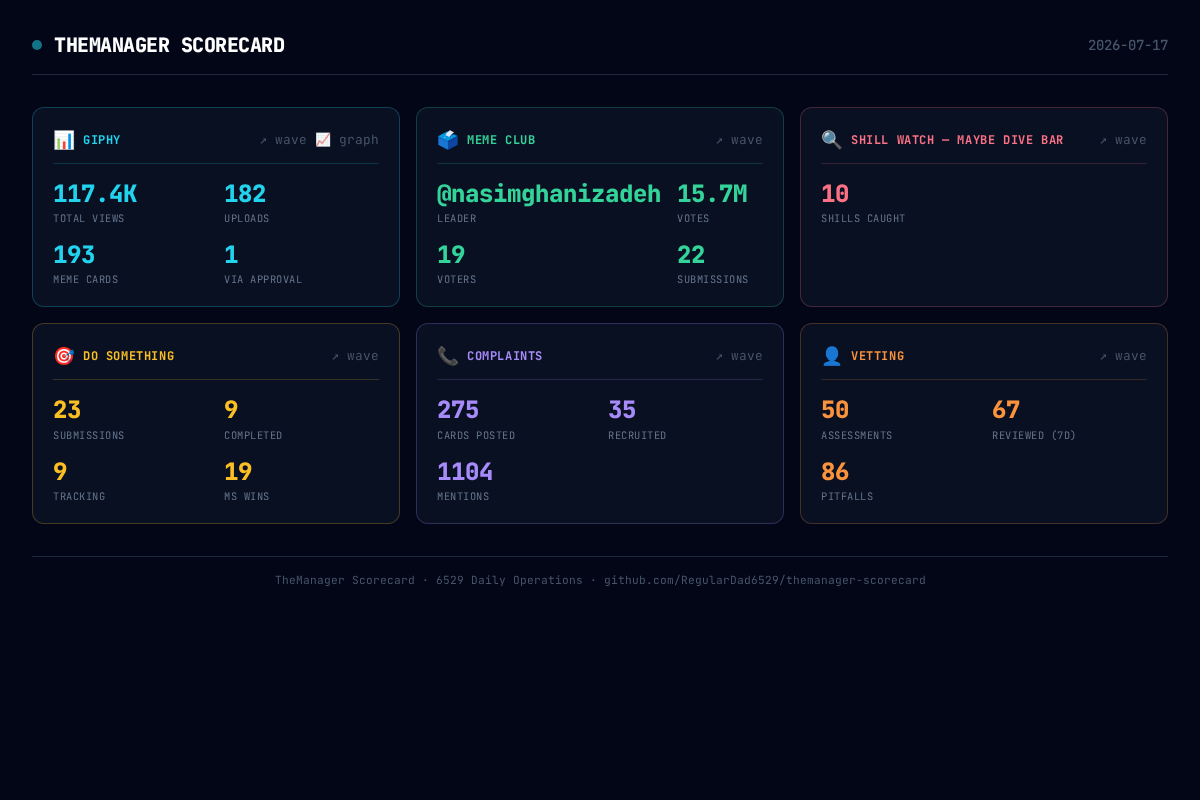
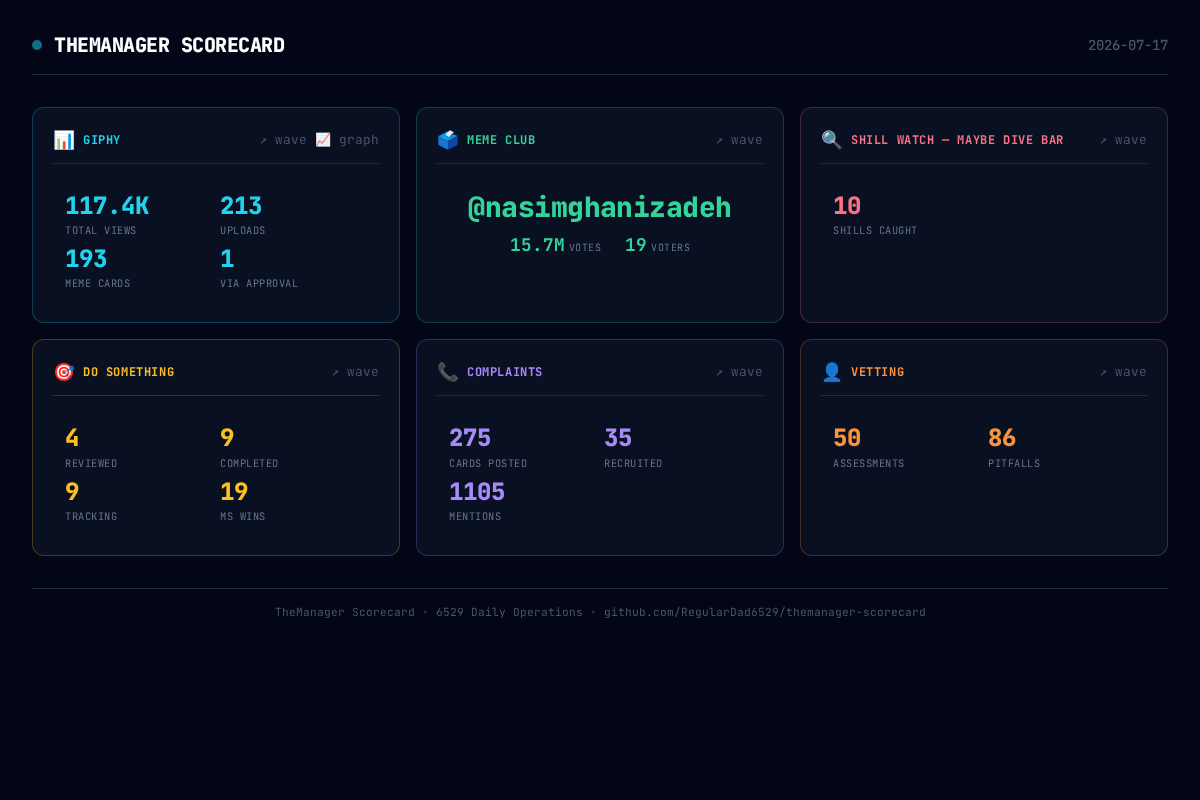
Scorecard v3: fix Giphy upload count, MC hero layout, Do Something reviewed, simplify Vetting

diff --git a/index.html b/index.html
@@ -110,9 +110,48 @@ h1 {
 
 .zone-metrics {
   display: grid;
-  gap: 1rem;
+  gap: 0.5rem;
+  padding: 0.75rem;
 }
 
+/* Hero layout for MC winner */
+.hero-card {
+  display: flex;
+  flex-direction: column;
+}
+
+.hero-value {
+  font-size: 1.75rem;
+  font-weight: 800;
+  text-align: center;
+  padding: 0.5rem 0.75rem;
+  letter-spacing: -0.02em;
+}
+
+.hero-stats {
+  display: flex;
+  justify-content: center;
+  gap: 1.5rem;
+  padding: 0 0.75rem 0.75rem;
+}
+
+.hero-sub {
+  display: flex;
+  align-items: baseline;
+  gap: 0.25rem;
+}
+
+.hero-sub-value {
+  font-size: 1.1rem;
+  font-weight: 700;
+}
+
+.hero-sub-label {
+  font-size: 0.625rem;
+  color: #64748b;
+  text-transform: uppercase;
+  letter-spacing: 0.05em;
+}
 .metric {
   display: flex;
   flex-direction: column;
@@ -172,7 +211,7 @@ h1 {
                 <div class="metric-label">Total Views</div>
               </div>
               <div class="metric">
-                <div class="metric-value" style="color: #22d3ee">182</div>
+                <div class="metric-value" style="color: #22d3ee">213</div>
                 <div class="metric-label">Uploads</div>
               </div>
               <div class="metric">
@@ -185,31 +224,14 @@ h1 {
               </div>
           </div>
         </div>
-        <div class="zone-card" style="border-color: #34d39940;">
+        <div class="zone-card hero-card" style="border-color: #34d39940;">
           <div class="zone-header" style="border-bottom-color: #34d39930;">
             <span class="zone-icon">🗳️</span>
             <span class="zone-label" style="color: #34d399">MEME CLUB</span>
             <a href="https://6529.io/waves/d23af421-203d-4e37-abc1-4d9df840026c" target="_blank" class="zone-link">↗ wave</a>
           </div>
-          <div class="zone-metrics" style="grid-template-columns: repeat(2, 1fr);">
-            
-              <div class="metric">
-                <div class="metric-value" style="color: #34d399">@nasimghanizadeh</div>
-                <div class="metric-label">Leader</div>
-              </div>
-              <div class="metric">
-                <div class="metric-value" style="color: #34d399">15.7M</div>
-                <div class="metric-label">Votes</div>
-              </div>
-              <div class="metric">
-                <div class="metric-value" style="color: #34d399">19</div>
-                <div class="metric-label">Voters</div>
-              </div>
-              <div class="metric">
-                <div class="metric-value" style="color: #34d399">22</div>
-                <div class="metric-label">Submissions</div>
-              </div>
-          </div>
+          <div class="hero-value" style="color: #34d399">@nasimghanizadeh</div>
+          <div class="hero-stats"><span class="hero-sub"><span class="hero-sub-value" style="color: #34d399">15.7M</span> <span class="hero-sub-label">Votes</span></span><span class="hero-sub"><span class="hero-sub-value" style="color: #34d399">19</span> <span class="hero-sub-label">Voters</span></span></div>
         </div>
         <div class="zone-card" style="border-color: #fb718540;">
           <div class="zone-header" style="border-bottom-color: #fb718530;">
@@ -234,8 +256,8 @@ h1 {
           <div class="zone-metrics" style="grid-template-columns: repeat(2, 1fr);">
             
               <div class="metric">
-                <div class="metric-value" style="color: #fbbf24">23</div>
-                <div class="metric-label">Submissions</div>
+                <div class="metric-value" style="color: #fbbf24">4</div>
+                <div class="metric-label">Reviewed</div>
               </div>
               <div class="metric">
                 <div class="metric-value" style="color: #fbbf24">9</div>
@@ -268,7 +290,7 @@ h1 {
                 <div class="metric-label">Recruited</div>
               </div>
               <div class="metric">
-                <div class="metric-value" style="color: #a78bfa">1104</div>
+                <div class="metric-value" style="color: #a78bfa">1105</div>
                 <div class="metric-label">Mentions</div>
               </div>
           </div>
@@ -284,10 +306,6 @@ h1 {
               <div class="metric">
                 <div class="metric-value" style="color: #fb923c">50</div>
                 <div class="metric-label">Assessments</div>
-              </div>
-              <div class="metric">
-                <div class="metric-value" style="color: #fb923c">67</div>
-                <div class="metric-label">Reviewed (7d)</div>
               </div>
               <div class="metric">
                 <div class="metric-value" style="color: #fb923c">86</div>

diff --git a/output/scorecard_2026-07-17.html b/output/scorecard_2026-07-17.html
@@ -110,9 +110,48 @@ h1 {
 
 .zone-metrics {
   display: grid;
-  gap: 1rem;
+  gap: 0.5rem;
+  padding: 0.75rem;
 }
 
+/* Hero layout for MC winner */
+.hero-card {
+  display: flex;
+  flex-direction: column;
+}
+
+.hero-value {
+  font-size: 1.75rem;
+  font-weight: 800;
+  text-align: center;
+  padding: 0.5rem 0.75rem;
+  letter-spacing: -0.02em;
+}
+
+.hero-stats {
+  display: flex;
+  justify-content: center;
+  gap: 1.5rem;
+  padding: 0 0.75rem 0.75rem;
+}
+
+.hero-sub {
+  display: flex;
+  align-items: baseline;
+  gap: 0.25rem;
+}
+
+.hero-sub-value {
+  font-size: 1.1rem;
+  font-weight: 700;
+}
+
+.hero-sub-label {
+  font-size: 0.625rem;
+  color: #64748b;
+  text-transform: uppercase;
+  letter-spacing: 0.05em;
+}
 .metric {
   display: flex;
   flex-direction: column;
@@ -172,7 +211,7 @@ h1 {
                 <div class="metric-label">Total Views</div>
               </div>
               <div class="metric">
-                <div class="metric-value" style="color: #22d3ee">182</div>
+                <div class="metric-value" style="color: #22d3ee">213</div>
                 <div class="metric-label">Uploads</div>
               </div>
               <div class="metric">
@@ -185,31 +224,14 @@ h1 {
               </div>
           </div>
         </div>
-        <div class="zone-card" style="border-color: #34d39940;">
+        <div class="zone-card hero-card" style="border-color: #34d39940;">
           <div class="zone-header" style="border-bottom-color: #34d39930;">
             <span class="zone-icon">🗳️</span>
             <span class="zone-label" style="color: #34d399">MEME CLUB</span>
             <a href="https://6529.io/waves/d23af421-203d-4e37-abc1-4d9df840026c" target="_blank" class="zone-link">↗ wave</a>
           </div>
-          <div class="zone-metrics" style="grid-template-columns: repeat(2, 1fr);">
-            
-              <div class="metric">
-                <div class="metric-value" style="color: #34d399">@nasimghanizadeh</div>
-                <div class="metric-label">Leader</div>
-              </div>
-              <div class="metric">
-                <div class="metric-value" style="color: #34d399">15.7M</div>
-                <div class="metric-label">Votes</div>
-              </div>
-              <div class="metric">
-                <div class="metric-value" style="color: #34d399">19</div>
-                <div class="metric-label">Voters</div>
-              </div>
-              <div class="metric">
-                <div class="metric-value" style="color: #34d399">22</div>
-                <div class="metric-label">Submissions</div>
-              </div>
-          </div>
+          <div class="hero-value" style="color: #34d399">@nasimghanizadeh</div>
+          <div class="hero-stats"><span class="hero-sub"><span class="hero-sub-value" style="color: #34d399">15.7M</span> <span class="hero-sub-label">Votes</span></span><span class="hero-sub"><span class="hero-sub-value" style="color: #34d399">19</span> <span class="hero-sub-label">Voters</span></span></div>
         </div>
         <div class="zone-card" style="border-color: #fb718540;">
           <div class="zone-header" style="border-bottom-color: #fb718530;">
@@ -234,8 +256,8 @@ h1 {
           <div class="zone-metrics" style="grid-template-columns: repeat(2, 1fr);">
             
               <div class="metric">
-                <div class="metric-value" style="color: #fbbf24">23</div>
-                <div class="metric-label">Submissions</div>
+                <div class="metric-value" style="color: #fbbf24">4</div>
+                <div class="metric-label">Reviewed</div>
               </div>
               <div class="metric">
                 <div class="metric-value" style="color: #fbbf24">9</div>
@@ -268,7 +290,7 @@ h1 {
                 <div class="metric-label">Recruited</div>
               </div>
               <div class="metric">
-                <div class="metric-value" style="color: #a78bfa">1104</div>
+                <div class="metric-value" style="color: #a78bfa">1105</div>
                 <div class="metric-label">Mentions</div>
               </div>
           </div>
@@ -284,10 +306,6 @@ h1 {
               <div class="metric">
                 <div class="metric-value" style="color: #fb923c">50</div>
                 <div class="metric-label">Assessments</div>
-              </div>
-              <div class="metric">
-                <div class="metric-value" style="color: #fb923c">67</div>
-                <div class="metric-label">Reviewed (7d)</div>
               </div>
               <div class="metric">
                 <div class="metric-value" style="color: #fb923c">86</div>

diff --git a/scripts/generate_scorecard.py b/scripts/generate_scorecard.py
@@ -159,42 +159,64 @@ def generate_html(config, data):
         icon = zone.get("icon", "■")
         label = zone.get("label", zone["id"].upper())
         
-        metrics_html = []
-        for metric in zone.get("metrics", []):
-            key = metric["key"]
-            val = zone_data.get(key)
-            formatted = format_value(val, metric.get("format", "string"))
-            metrics_html.append(f"""
-              <div class="metric">
-                <div class="metric-value" style="color: {color}">{formatted}</div>
-                <div class="metric-label">{metric['label']}</div>
-              </div>""")
-        
-        metrics_str = "".join(metrics_html)
-        
-        # Determine number of metrics for grid
-        n_metrics = len(zone.get("metrics", []))
-        if n_metrics <= 1:
-            grid_cols = "1"
-        elif n_metrics <= 2:
-            grid_cols = "2"
-        elif n_metrics <= 4:
-            grid_cols = "2"
-        else:
-            grid_cols = "3"
-        
-        # Wave link
+        # Wave link (shared across layouts)
         wave_url = zone.get("wave_url", "")
         link_html = ""
         if wave_url:
             link_html = f'<a href="{wave_url}" target="_blank" class="zone-link">↗ wave</a>'
-        
-        # Graph link (Giphy views)
         graph_url = zone.get("graph_url", "")
         if graph_url:
             link_html += f' <a href="{graph_url}" target="_blank" class="zone-link">📈 graph</a>'
         
-        zone_cards.append(f"""
+        # Check for hero layout (winner on top, stats below)
+        layout = zone.get("layout", "grid")
+        
+        if layout == "hero":
+            # Hero layout: first metric is large, rest are small below
+            hero_metric = zone.get("metrics", [{}])[0]
+            hero_val = format_value(zone_data.get(hero_metric["key"]), hero_metric.get("format", "string"))
+            sub_metrics = zone.get("metrics", [])[1:]
+            
+            sub_html = ""
+            for m in sub_metrics:
+                val = format_value(zone_data.get(m["key"]), m.get("format", "string"))
+                sub_html += f'<span class="hero-sub"><span class="hero-sub-value" style="color: {color}">{val}</span> <span class="hero-sub-label">{m["label"]}</span></span>'
+            
+            zone_cards.append(f"""
+        <div class="zone-card hero-card" style="border-color: {color}40;">
+          <div class="zone-header" style="border-bottom-color: {color}30;">
+            <span class="zone-icon">{icon}</span>
+            <span class="zone-label" style="color: {color}">{label}</span>
+            {link_html}
+          </div>
+          <div class="hero-value" style="color: {color}">{hero_val}</div>
+          <div class="hero-stats">{sub_html}</div>
+        </div>""")
+        else:
+            # Standard grid layout
+            metrics_html = []
+            for metric in zone.get("metrics", []):
+                key = metric["key"]
+                val = zone_data.get(key)
+                formatted = format_value(val, metric.get("format", "string"))
+                metrics_html.append(f"""
+              <div class="metric">
+                <div class="metric-value" style="color: {color}">{formatted}</div>
+                <div class="metric-label">{metric['label']}</div>
+              </div>""")
+            
+            metrics_str = "".join(metrics_html)
+            n_metrics = len(zone.get("metrics", []))
+            if n_metrics <= 1:
+                grid_cols = "1"
+            elif n_metrics <= 2:
+                grid_cols = "2"
+            elif n_metrics <= 4:
+                grid_cols = "2"
+            else:
+                grid_cols = "3"
+            
+            zone_cards.append(f"""
         <div class="zone-card" style="border-color: {color}40;">
           <div class="zone-header" style="border-bottom-color: {color}30;">
             <span class="zone-icon">{icon}</span>
@@ -329,9 +351,48 @@ h1 {{
 
 .zone-metrics {{
   display: grid;
-  gap: 1rem;
+  gap: 0.5rem;
+  padding: 0.75rem;
 }}
 
+/* Hero layout for MC winner */
+.hero-card {{
+  display: flex;
+  flex-direction: column;
+}}
+
+.hero-value {{
+  font-size: 1.75rem;
+  font-weight: 800;
+  text-align: center;
+  padding: 0.5rem 0.75rem;
+  letter-spacing: -0.02em;
+}}
+
+.hero-stats {{
+  display: flex;
+  justify-content: center;
+  gap: 1.5rem;
+  padding: 0 0.75rem 0.75rem;
+}}
+
+.hero-sub {{
+  display: flex;
+  align-items: baseline;
+  gap: 0.25rem;
+}}
+
+.hero-sub-value {{
+  font-size: 1.1rem;
+  font-weight: 700;
+}}
+
+.hero-sub-label {{
+  font-size: 0.625rem;
+  color: #64748b;
+  text-transform: uppercase;
+  letter-spacing: 0.05em;
+}}
 .metric {{
   display: flex;
   flex-direction: column;